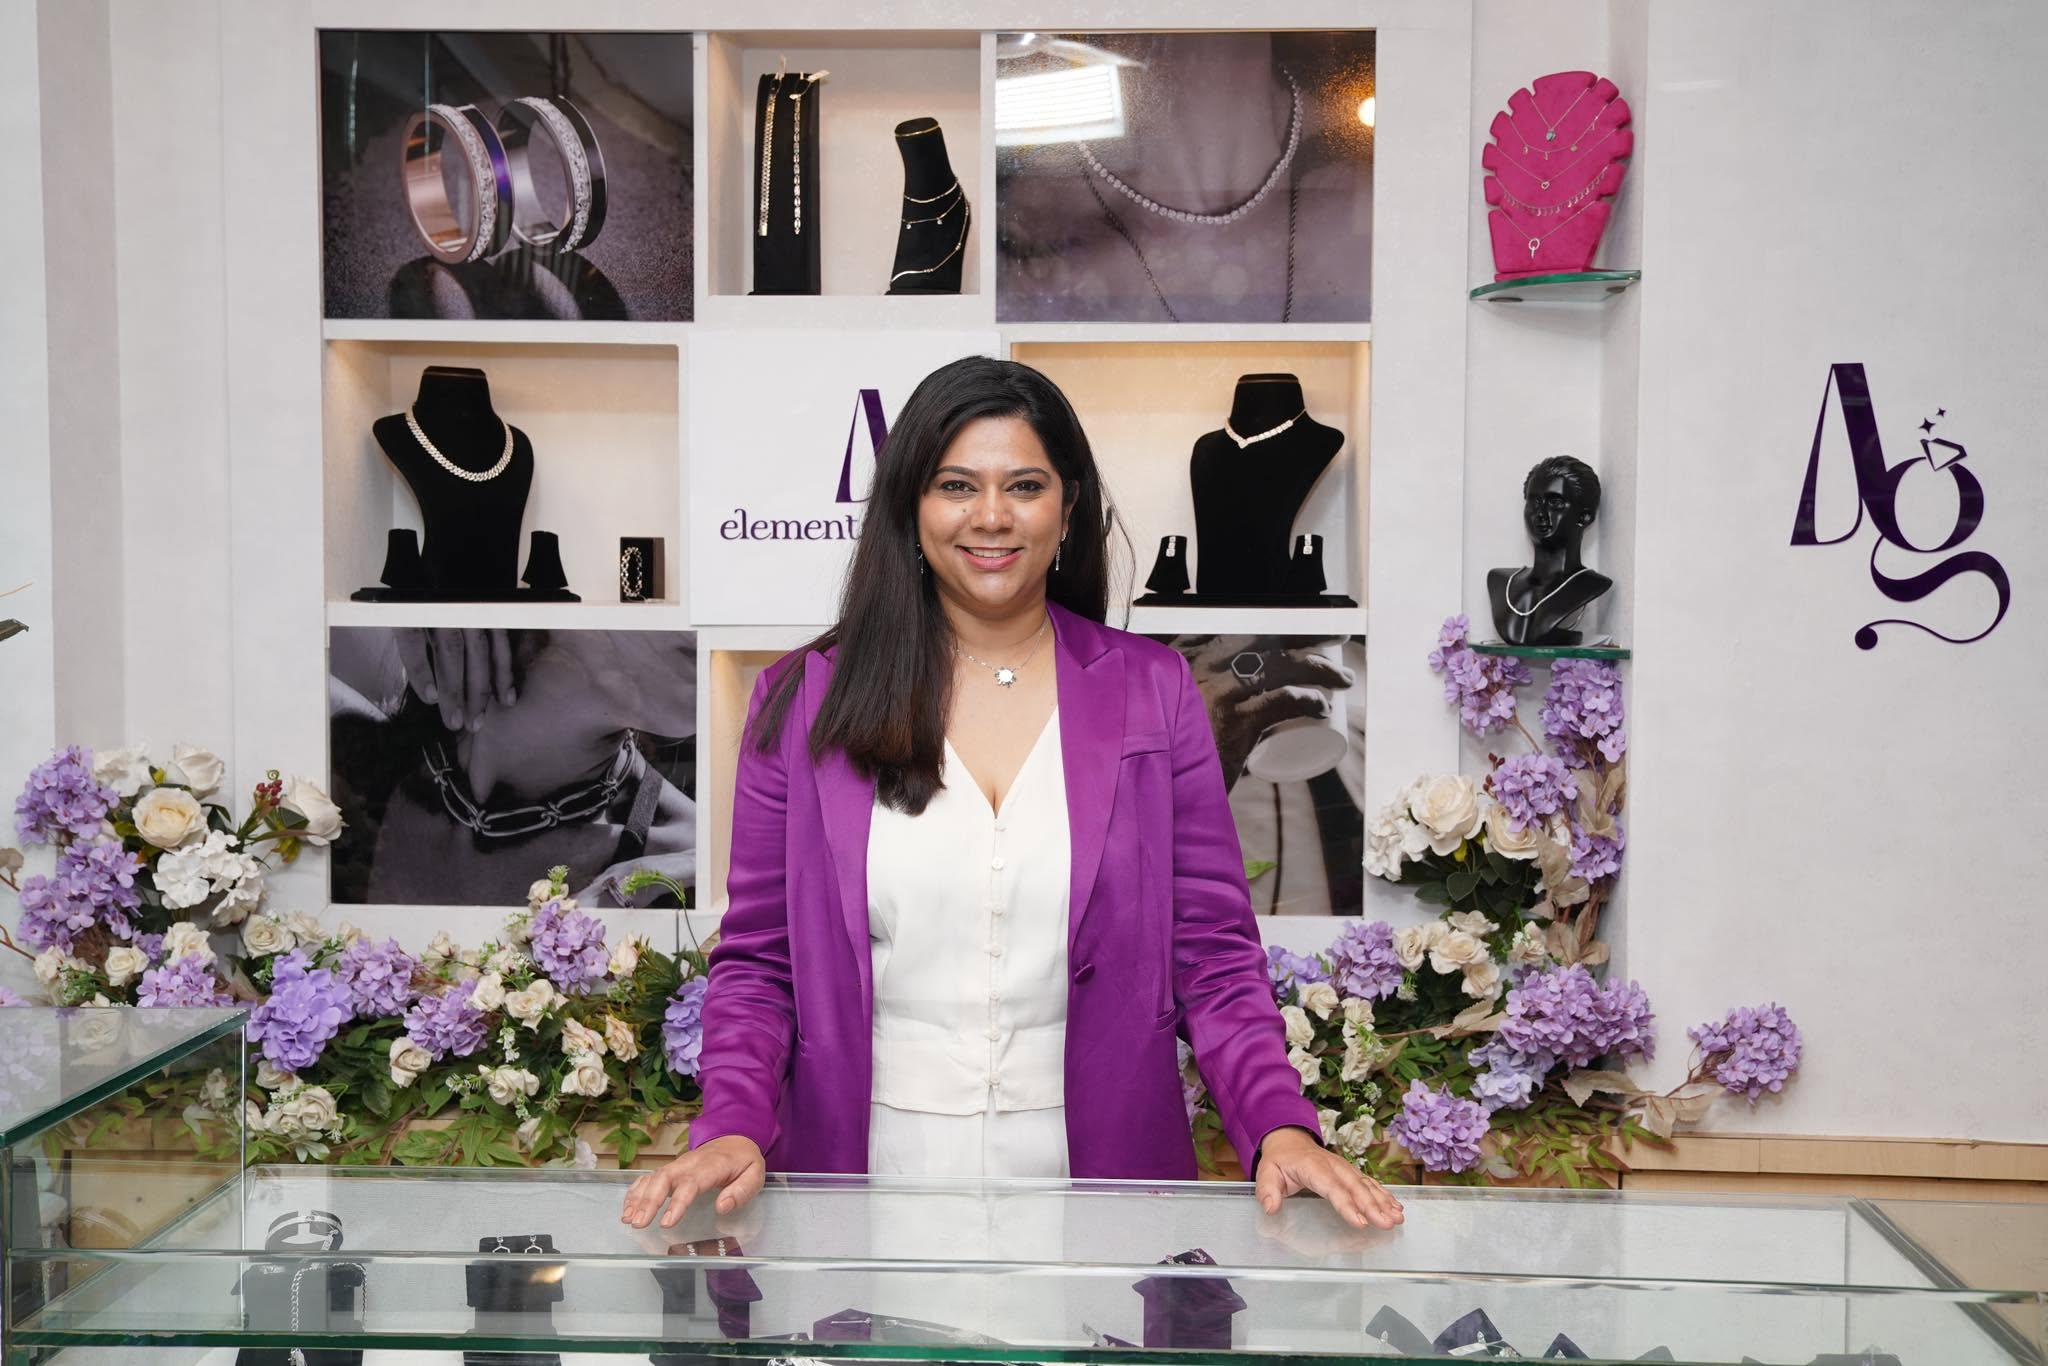
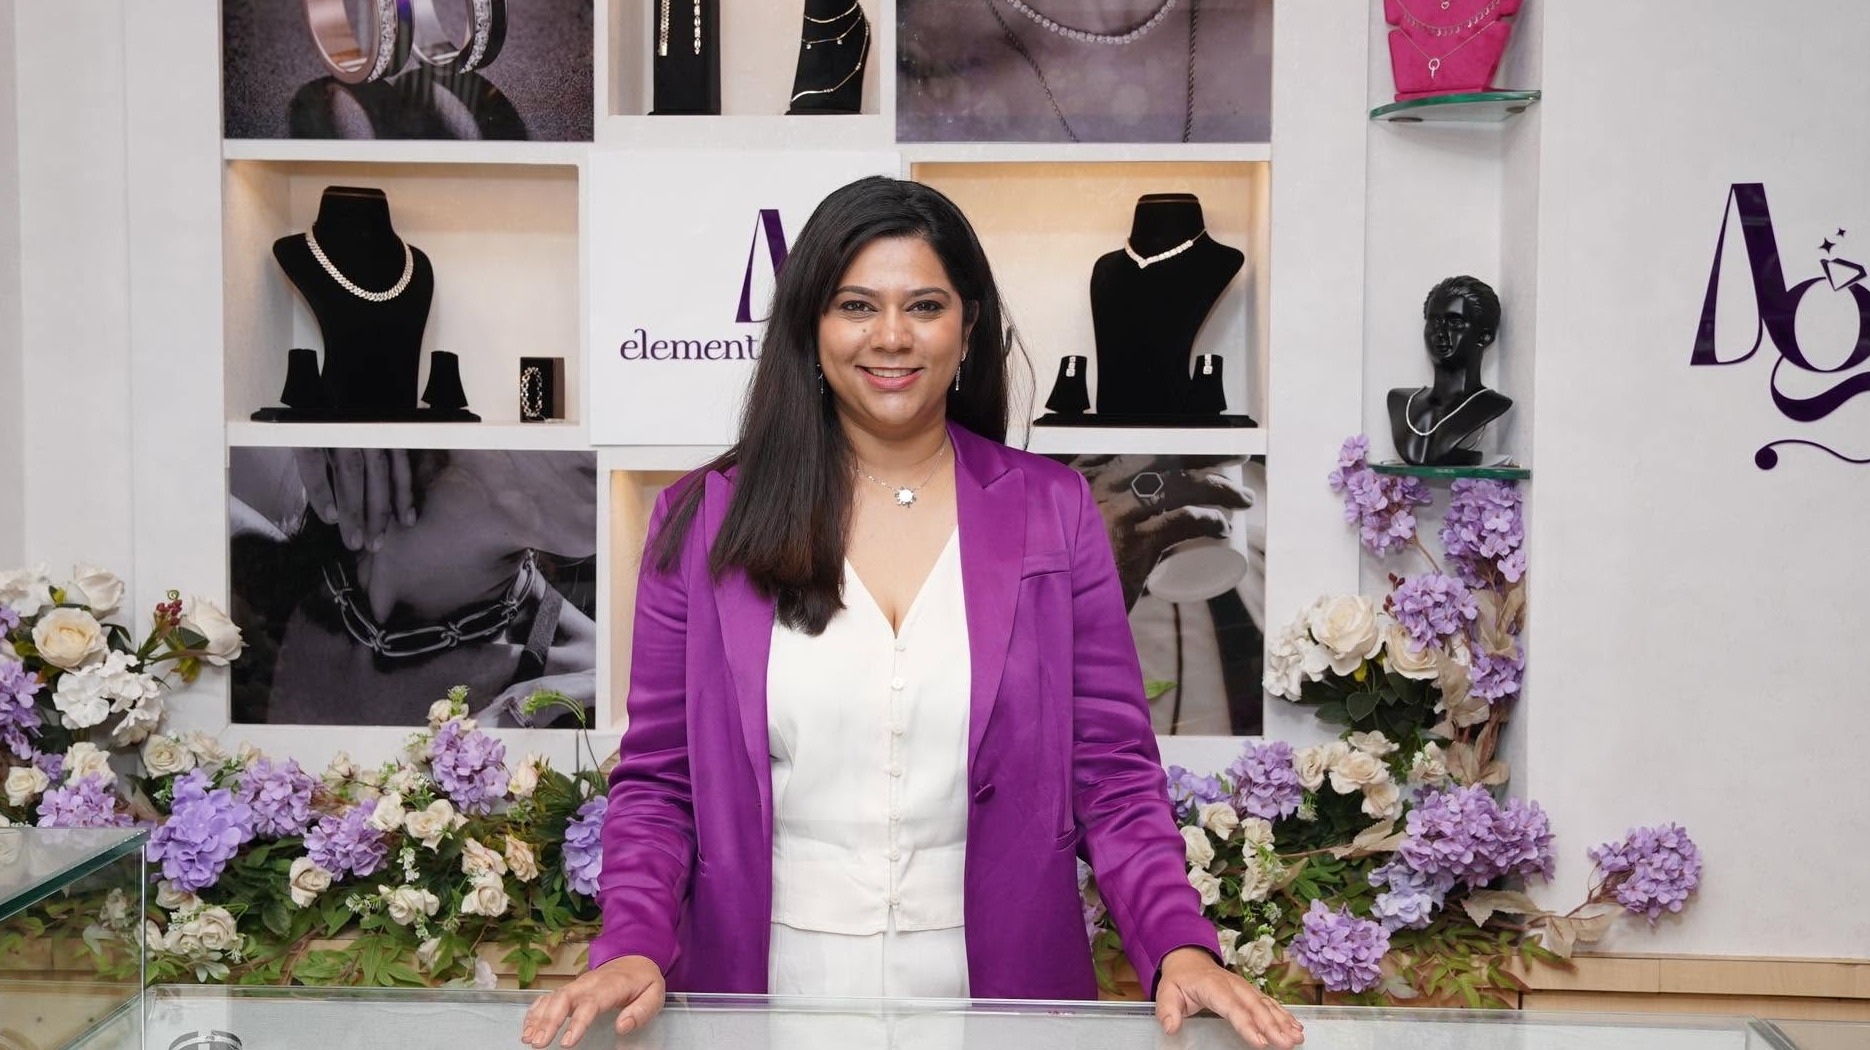
final account fix with product data and images are now properly fetching

diff --git a/src/services/reviews.ts b/src/services/reviews.ts
@@ -1,32 +1,26 @@
 import { WooCommerceReview } from "@/types/woocommerce";
 import { absoluteUrl } from "@/lib/seo/site";
+import { wcClient } from "@/services/woocommerce/client";
 
-// This app's own /api/products/reviews route, not a separate backend — there is no
-// external review service. The previous `NEXT_PUBLIC_API_URL || 'http://localhost:3000/api'`
-// fallback was always taken (that env var was never actually set anywhere), so in
-// production this silently tried to reach localhost:3000 from wherever the request ran:
-// from the server for getProductReviews() (product/[slug]/page.tsx calls it in a Server
-// Component), and from each visitor's own machine for createProductReview() (called
-// client-side) — both fail every time, which is why reviews never loaded and submissions
-// never went through. absoluteUrl() resolves to the real site origin in both contexts.
+// createProductReview is called client-side (a visitor submitting a review from the
+// browser), so it has to go over HTTP to this app's own /api/products/reviews route —
+// the browser can't use wcClient directly (server-only: it holds the WC consumer secret).
+// absoluteUrl() resolves that route to the real site origin.
 const API_URL = absoluteUrl('/api/products');
 
 /**
- * Fetch reviews for a specific product
+ * Fetch reviews for a specific product.
+ *
+ * Runs server-side only (called from a Server Component), so it talks to wcClient
+ * directly instead of round-tripping through this app's own /api/products/reviews
+ * route — that route exists for the client-side submission flow below, not for this.
  */
 export async function getProductReviews(productId: number): Promise<WooCommerceReview[]> {
   try {
-    const res = await fetch(`${API_URL}/reviews?product_id=${productId}`, {
-      next: { revalidate: 60 } // Cache for 60 seconds
-    });
-    
-    if (!res.ok) {
-      console.warn(`Failed to fetch reviews for product ${productId}: ${res.statusText}`);
-      return [];
-    }
-    
-    const data = await res.json();
-    return data;
+    return await wcClient.fetch<WooCommerceReview[]>(
+      `/products/reviews?product=${productId}&status=approved`,
+      { next: { revalidate: 60 } }
+    );
   } catch (error) {
     console.error(`Error fetching reviews for product ${productId}:`, error);
     return [];

diff --git a/src/app/page.tsx b/src/app/page.tsx
@@ -29,12 +29,12 @@ export default async function Home() {
   return (
     <div className="flex flex-col w-full bg-pearl-white">
       {/* 1. Editorial Hero Banner */}
-      <section className="relative w-full h-[75vh] min-h-[560px] flex items-center justify-center tablet:justify-start overflow-hidden bg-surface-variant">
+      <section className="relative w-full h-[75vh] min-h-[560px] flex items-end justify-center tablet:justify-start overflow-hidden bg-surface-variant">
         {/* LCP Optimized Poster Image */}
         <div className="absolute inset-0 w-full h-full z-0 bg-surface-variant">
           <Image
             src="/brand/hero-studio.jpg"
-            alt="AG Elements sterling silver jewellery, showcased at our studio"
+            alt="AG Elements founder at our jewellery studio"
             fill
             priority
             fetchPriority="high"
@@ -43,10 +43,11 @@ export default async function Home() {
           />
         </div>
 
-        {/* Elegant Gradient Overlay — let the photography lead, keep just enough contrast for the text */}
+        {/* Elegant Gradient Overlay — darkest at the bottom (where the text now sits), fully
+            clear at the top so the founder's face in the upper frame stays unobscured */}
         <div className="absolute inset-0 z-10 bg-gradient-to-t from-charcoal-navy/80 via-charcoal-navy/25 to-transparent"></div>
-        
-        <div className="relative z-20 w-full max-w-[1440px] mx-auto text-center px-margin-mobile tablet:px-margin-desktop flex flex-col items-center mt-auto mb-24 tablet:mb-0 tablet:mt-0">
+
+        <div className="relative z-20 w-full max-w-[1440px] mx-auto text-center px-margin-mobile tablet:px-margin-desktop pb-16 tablet:pb-20 flex flex-col items-center">
           <span className="font-label-md text-[14px] uppercase tracking-[0.2em] text-pearl-white/80 font-semibold mb-6 drop-shadow-md">
             The New Collection
           </span>

diff --git a/src/app/collections/[slug]/loading.tsx b/src/app/collections/[slug]/loading.tsx
@@ -1,0 +1,38 @@
+import { Skeleton } from "@/components/ui/skeleton";
+
+export default function CollectionLoading() {
+  return (
+    <div className="flex flex-col w-full bg-pearl-white min-h-screen">
+      {/* Banner */}
+      <div className="relative w-full h-[45vh] min-h-[400px] bg-surface-variant" />
+
+      {/* Story block */}
+      <section className="py-16 tablet:py-24 px-margin-mobile tablet:px-margin-desktop max-w-[1440px] mx-auto w-full">
+        <div className="max-w-3xl mx-auto flex flex-col items-center gap-4">
+          <Skeleton className="h-8 w-64" />
+          <Skeleton className="h-4 w-full max-w-xl" />
+          <Skeleton className="h-4 w-2/3 max-w-md" />
+        </div>
+      </section>
+
+      {/* Product grid */}
+      <section className="py-12 tablet:py-16 w-full">
+        <div className="max-w-[1440px] mx-auto px-margin-mobile tablet:px-margin-desktop">
+          <div className="mb-8 tablet:mb-12 flex flex-col gap-2">
+            <Skeleton className="h-7 w-56" />
+            <Skeleton className="h-4 w-32" />
+          </div>
+          <div className="grid grid-cols-2 tablet:grid-cols-3 desktop:grid-cols-4 gap-x-4 gap-y-10">
+            {Array.from({ length: 12 }).map((_, i) => (
+              <div key={i} className="flex flex-col gap-3">
+                <Skeleton className="aspect-[4/5] w-full rounded" />
+                <Skeleton className="h-4 w-3/4" />
+                <Skeleton className="h-4 w-1/2" />
+              </div>
+            ))}
+          </div>
+        </div>
+      </section>
+    </div>
+  );
+}

diff --git a/src/app/product/[slug]/loading.tsx b/src/app/product/[slug]/loading.tsx
@@ -1,0 +1,34 @@
+import { Skeleton } from "@/components/ui/skeleton";
+
+export default function ProductLoading() {
+  return (
+    <main className="w-full max-w-[1440px] mx-auto px-margin-mobile md:px-margin-desktop py-8 md:py-12">
+      <Skeleton className="h-4 w-64 mb-8" />
+
+      <div className="grid grid-cols-1 lg:grid-cols-12 gap-gutter">
+        {/* Gallery */}
+        <div className="lg:col-span-7">
+          <Skeleton className="h-[600px] w-full rounded" />
+        </div>
+
+        {/* Details */}
+        <div className="lg:col-span-5 flex flex-col gap-8">
+          <div className="flex flex-col gap-3">
+            <Skeleton className="h-6 w-40" />
+            <Skeleton className="h-10 w-full" />
+            <Skeleton className="h-4 w-48" />
+          </div>
+          <div className="flex flex-col gap-4">
+            <Skeleton className="h-8 w-32" />
+            <Skeleton className="h-12 w-full rounded" />
+          </div>
+          <div className="flex flex-col gap-3">
+            {Array.from({ length: 5 }).map((_, i) => (
+              <Skeleton key={i} className="h-12 w-full" />
+            ))}
+          </div>
+        </div>
+      </div>
+    </main>
+  );
+}

diff --git a/src/app/account/page.tsx b/src/app/account/page.tsx
@@ -12,7 +12,7 @@ export default async function AccountDashboardPage() {
     redirect('/account/login?redirect=/account');
   }
 
-  const baseUrl = process.env.NEXT_PUBLIC_WC_API_URL || '';
+  const baseUrl = (process.env.NEXT_PUBLIC_WP_URL || '').replace(/\/$/, '');
   
   let userId;
   try {

diff --git a/src/app/api/auth/register/route.ts b/src/app/api/auth/register/route.ts
@@ -85,7 +85,6 @@ export async function POST(request: Request) {
             'Cart-Token': cartToken,
           }
         });
-        console.log('Guest cart merged successfully.');
       } catch (err) {
         console.warn('Failed to merge guest cart during registration:', err);
       }

diff --git a/next.config.ts b/next.config.ts
@@ -12,6 +12,10 @@ const nextConfig: NextConfig = {
       {
         protocol: 'https',
         hostname: 'agelements.in',
+      },
+      {
+        protocol: 'https',
+        hostname: 'cms.agelements.in',
       }
     ],
   },
